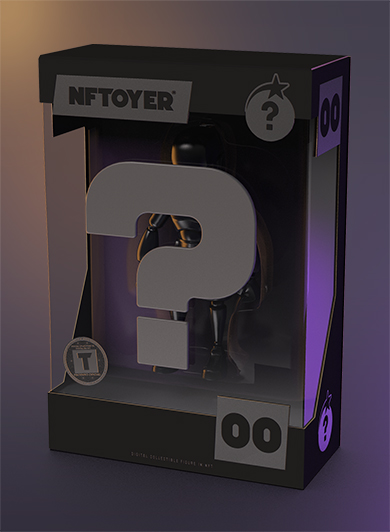
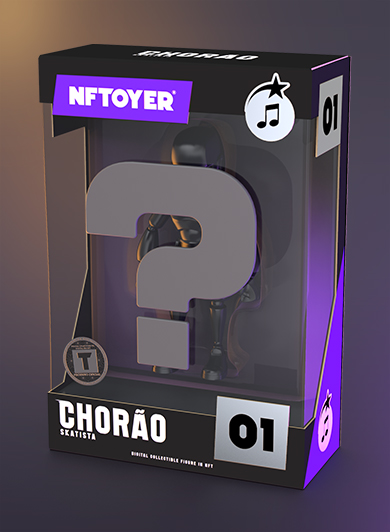
release

diff --git a/src/page-demo/Demo.js b/src/page-demo/Demo.js
@@ -18,7 +18,7 @@ const SlideList = [
         category: 'SEJA BEM-VINDO AO METAVERSO!',
         description: '',
         buttonText: 'Ver Coleções',
-        buttonLink: 'https://opensea.io/nftoyer'
+        buttonLink: 'https://opensea.io/collection/nftoyer'
     }
 ]
 
@@ -72,7 +72,7 @@ const PortfolioLanding = () => {
                                             {value.category ? <span>{value.category}</span> : ''}
                                             <h1 className="title">Figuras colecionáveis<br />em NFT para <br />
                                                 <TextLoop>
-                                                    <span> Colecionar.</span>
+                                                    <span> Manter.</span>
                                                     <span> Presentear.</span>
                                                     <span> Compartilhar.</span>
                                                 </TextLoop>{" "}
@@ -113,12 +113,12 @@ const PortfolioLanding = () => {
                             <div className="col-lg-6 col-md-12 col-sm-12 col-12">
                                 <div className="section-title text-left">
                                     <h2>Coleções</h2>
-                                    <p>Comerializamos nossos NFTOYERs pela plataforma OpenSea.</p>
+                                    <p>Comercializamos nossos NFTOYERs pela plataforma OpenSea.</p>
                                 </div>
                             </div>
                             <div className="col-lg-6 col-md-12 col-sm-12 col-12">
                                 <div className="blog-btn text-left text-lg-right mt_sm--10 mt_md--10">
-                                    <a className="btn-transparent rn-btn-dark" href="https://opensea.io/nftoyer" target="_blank" rel="noopener noreferrer"><span className="text">Ver todas coleções</span></a>
+                                    <a className="btn-transparent rn-btn-dark" href="https://opensea.io/collection/nftoyer" target="_blank" rel="noopener noreferrer"><span className="text">Ver todas coleções</span></a>
                                 </div>
                             </div>
                         </div>
@@ -200,6 +200,7 @@ const PortfolioLanding = () => {
             {/* ROADMAP */}
 
             {/* Start About Area  */}
+            <div id="roadmap" className="fix">
             <div className="rn-about-area ptb--120 bg_color--5">
                 <div className="rn-about-wrapper">
                     <div className="container">
@@ -229,6 +230,7 @@ const PortfolioLanding = () => {
                     </div>
                 </div>
             </div>
+            </div>
             {/* End About Area  */}
 
             {/* FAQ */}
@@ -251,16 +253,16 @@ const PortfolioLanding = () => {
 
                                     <h4 className="title">• Como funciona uma coleção?</h4>
                                     <p>Cada coleção trará uma estrela em sua versão NFTOYER®, contextualizada a um tema que representa sua personalidade e seu universo. As figuras são comercializadas dentro de suas próprias embalagens e traz consigo alguns itens que formam o conjunto daquela edição. <br/><br/>
-                                    Nossa fábricação de brinquedos digitais opera de forma única. As coleções tem tiragens limitadas e não serão relançadas por nós novamente!</p>
+                                    Nossa fabricação de brinquedos digitais opera de forma única. As coleções tem tiragens limitadas e não serão relançadas por nós novamente!</p>
 
                                     <h4 className="title">• Whitelist?!</h4>
                                     <p><spam style={{fontWeight:'800'}}>Não temos whitelist!</spam> Fique de olho em nossas redes sociais para saber dos próximos lançamentos.</p>
 
                                     <h4 className="title">• Onde posso comprar um NFTOYER®?</h4>
-                                    <p>Nossos NFTs são comercializados em Ethereum e podem ser adquiridos na plataforma <a href="https://opensea.io/nftoyer" target="_blank" rel="noopener noreferrer" style={{color:'#8f5eef'}}>OpenSea</a></p>
+                                    <p>Nossos NFTs são comercializados em Ethereum e podem ser adquiridos na plataforma <a href="https://opensea.io/collection/nftoyer" target="_blank" rel="noopener noreferrer" style={{color:'#8f5eef'}}>OpenSea</a></p>
 
                                     <h4 className="title">• Como posso saber mais sobre o projeto?</h4>
-                                    <p>Fique atento em nossas redes sociais, estaremos publicando todas as novidades diariamente!<a href="https://discord.gg/Z6mfaDzzub" target="_blank" rel="noopener noreferrer" style={{color:'#8f5eef'}}> Participe também da nossa comunidade no Discord!</a></p>
+                                    <p>Fique atento em nossas redes sociais! Todas as novidades serão publicadas diariamente!<a href="https://discord.gg/Z6mfaDzzub" target="_blank" rel="noopener noreferrer" style={{color:'#8f5eef'}}> Participe também da nossa comunidade no Discord!</a></p>
 
                                 </div>
                             </div>

diff --git a/src/elements/PortfolioChorao.jsx b/src/elements/PortfolioChorao.jsx
@@ -11,56 +11,56 @@ const ChoraoSkatistaList = [
         image: '1',
         category: '15 unidades',
         title: '#01 Chorão Skatista - Gold',
-        linkCompra: 'https://opensea.io/nftoyer'
+        linkCompra: 'https://opensea.io/collection/nftoyer'
     },
     {
         image: '2',
         category: '250 unidades',
         title: '#01 Chorão Skatista - Silver',
-        linkCompra: 'https://opensea.io/nftoyer'
+        linkCompra: 'https://opensea.io/collection/nftoyer'
     },
     {
         image: '3',
         category: '5.000 unidades',
         title: '#01 Chorão Skatista - Carbon',
-        linkCompra: 'https://opensea.io/nftoyer'
+        linkCompra: 'https://opensea.io/collection/nftoyer'
     },
     {
         image: '4',
         category: '2.500 unidades',
         title: '#01 Chorão Skatista - Accessory',
-        linkCompra: 'https://opensea.io/nftoyer'
+        linkCompra: 'https://opensea.io/collection/nftoyer'
     },
     {
         image: '4',
         category: '2.500 unidades',
         title: '#01 Chorão Skatista - Accessory',
-        linkCompra: 'https://opensea.io/nftoyer'
+        linkCompra: 'https://opensea.io/collection/nftoyer'
     },
     {
         image: '4',
         category: '2.500 unidades',
         title: '#01 Chorão Skatista - Accessory',
-        linkCompra: 'https://opensea.io/nftoyer'
+        linkCompra: 'https://opensea.io/collection/nftoyer'
     },
     {
         image: '5',
         category: '1 unidade',
         title: '#01 Chorão Skatista - Mystery Box',
-        linkCompra: 'https://opensea.io/nftoyer'
+        linkCompra: 'https://opensea.io/collection/nftoyer'
     },
     {
         image: '6',
         category: '1 unidade',
         title: '#01 Chorão Skatista - Blueprint',
-        linkCompra: 'https://opensea.io/nftoyer'
+        linkCompra: 'https://opensea.io/collection/nftoyer'
     },
     ,
     {
         image: '7',
         category: '1 unidade',
         title: '#01 Chorão Skatista - Concept',
-        linkCompra: 'https://opensea.io/nftoyer'
+        linkCompra: 'https://opensea.io/collection/nftoyer'
     }
 ];
 
@@ -110,6 +110,36 @@ const ChoraoSkatistaList = [
 //     }
 // ]
 
+var countDownDate = new Date("May 5, 2022 19:00:00").getTime();
+
+// Update the count down every 1 second
+var x = setInterval(function() {
+
+  // Get today's date and time
+  var now = new Date().getTime();
+    
+  // Find the distance between now and the count down date
+  var distance = countDownDate - now;
+    
+  // Time calculations for days, hours, minutes and seconds
+  var days = Math.floor(distance / (1000 * 60 * 60 * 24));
+  var hours = Math.floor((distance % (1000 * 60 * 60 * 24)) / (1000 * 60 * 60));
+  var minutes = Math.floor((distance % (1000 * 60 * 60)) / (1000 * 60));
+  var seconds = Math.floor((distance % (1000 * 60)) / 1000);
+    
+  // Output the result in an element with id="demo"
+  document.getElementById("demo").innerHTML = days + "d " + hours + "h "
+  + minutes + "m " + seconds + "s ";
+    
+  // If the count down is over, write some text 
+  if (distance < 0) {
+    clearInterval(x);
+    document.getElementById("demo").innerHTML = "EXPIRED";
+  }
+}, 1000);
+
+
+
 class PortfolioChorao extends Component {
     render() {
         return (
@@ -129,7 +159,8 @@ class PortfolioChorao extends Component {
                                 <div className="row">
                                     <div className="col-lg-12">
                                         <div className="section-title text-left service-style--3 mb--30">
-                                            <h2 className="title"><spam style={{ color: '#6C1FE5' }}>#01</spam> Chorão Skatista</h2>
+                                            <h2 className="title"><spam style={{ color: '#6C1FE5' }}>#01</spam> Chorão Skatista</h2>                                            
+                                            <h4 style={{textAlign:'left', fontWeight:'200'}}>Disponível em: <spam id="demo" style={{textAlign:'left', color:"white", fontWeight:'800'}}/></h4>
                                         </div>
                                     </div>
                                 </div>
@@ -147,7 +178,7 @@ class PortfolioChorao extends Component {
                                                     <p className="portfoliotype">{value.category}</p>
                                                     <h4 className="title"><a href={value.linkCompra}>{value.title}</a></h4>
                                                     <div className="portfolio-btn">
-                                                        <a className="rn-btn text-white" target="_blank" rel="noopener noreferrer" href={value.linkCompra}>Comprar</a>
+                                                        <a className="rn-btn text-white" target="_blank" rel="noopener noreferrer" href={value.linkCompra}>Ver no OpenSea</a>
                                                     </div>
                                                 </div>
                                             </div>

diff --git a/src/component/HomeLayout/homeOne/About.jsx b/src/component/HomeLayout/homeOne/About.jsx
@@ -1,7 +1,6 @@
 import React, { Component, useRef, Suspense } from "react";
 import { Canvas, Mesh, } from '@react-three/fiber'
 import { PresentationControls, ContactShadows, Stage, Float, Loader, Environment, SpotLight } from '@react-three/drei'
-import Model from "../../model";
 import Model00 from "../../model00";
 import { Link } from "react-router-dom";
 
@@ -30,7 +29,7 @@ class About extends Component {
                                             {/* <ContactShadows rotation-x={Math.PI / 2} position={[0, 0, 0]} color={} width={10} height={10} blur={2.6} far={2} /> */}
                                         </Canvas>
                                     </Suspense>
-                                    <img src="/assets/images/about/touchinteraction.png" />
+                                    <img src="/assets/images/about/touchinteraction.png" style={{marginBottom:'35px'}}/>
 
                                 </div>
                             </div>
@@ -39,7 +38,7 @@ class About extends Component {
                                 <div className="about-inner inner">
                                     <div className="section-title">
                                         <h2 className="title">Sobre</h2>
-                                        <p className="description">Somos a primeira empresa brasileira de<spam style={{ fontWeight: '900' }}> Figuras Colecionáveis em NFT, autenticadas oficialmente</spam> por estrelas da cultura pop nacional.</p>
+                                        <p className="description">Somos a primeira empresa brasileira de<spam style={{ fontWeight: '900' }}> figuras colecionáveis em NFT, autenticadas oficialmente</spam> por estrelas da cultura pop nacional.</p>
 
                                         <div className="container">
                                             <div className="row">
@@ -72,7 +71,7 @@ class About extends Component {
                                         <div className="col-lg-12 col-md-12 col-sm-12 col-12">
                                             <div className="about-us-list">
                                                 <h3 className="title">NFTOYERs</h3>
-                                                <p style={{ textAlign: "justify" }}>Cada coleção trará uma estrela em sua versão NFTOYER®, contextualizada a um tema que representa sua personalidade e seu universo. As figuras são comercializadas dentro de suas próprias embalagens, para preservar seu estado de conservação e traz consigo alguns itens que formam o conjunto daquela edição. Nossa fábricação de brinquedos digitais opera de forma única. As coleções tem tiragens limitadas e não serão relançadas por nós novamente!</p>
+                                                <p style={{ textAlign: "justify" }}>Cada coleção trará uma estrela em sua versão NFTOYER®, contextualizada a um tema que representa sua personalidade e seu universo. As figuras são comercializadas dentro de suas próprias embalagens, para preservar seu estado de conservação e traz consigo alguns itens que formam o conjunto daquela edição. Nossa fabricação de brinquedos digitais opera de forma única. As coleções tem tiragens limitadas e não serão relançadas por nós novamente!</p>
                                             </div>
                                         </div>
 

diff --git a/src/elements/portfolio/PortfolioImagesChorao.jsx b/src/elements/portfolio/PortfolioImagesChorao.jsx
@@ -6,44 +6,44 @@ const PortfolioList = [
         image: '1',
         category: 'Figura colecionável',
         title: '#01 Chorão Skatista - Gold',
-        linkCompra: 'https://opensea.io/nftoyer'
+        linkCompra: 'https://opensea.io/collection/nftoyer'
     },
     {
         image: '2',
         category: 'Figura colecionável',
         title: '#01 Chorão Skatista - Silver',
-        linkCompra: 'https://opensea.io/nftoyer'
+        linkCompra: 'https://opensea.io/collection/nftoyer'
     },
     {
         image: '3',
         category: 'Figura colecionável',
         title: '#01 Chorão Skatista - Carbon',
-        linkCompra: 'https://opensea.io/nftoyer'
+        linkCompra: 'https://opensea.io/collection/nftoyer'
     },
     {
         image: '4',
         category: 'Acessório',
         title: '#01 Chorão Skatista - Accessory',
-        linkCompra: 'https://opensea.io/nftoyer'
+        linkCompra: 'https://opensea.io/collection/nftoyer'
     },
     {
         image: '5',
         category: 'Desenho técnico',
         title: '#01 Chorão Skatista - Blueprint',
-        linkCompra: 'https://opensea.io/nftoyer'
+        linkCompra: 'https://opensea.io/collection/nftoyer'
     },
     {
         image: '6',
         category: 'Conceito',
         title: '#01 Chorão Skatista - Concept',
-        linkCompra: 'https://opensea.io/nftoyer'
+        linkCompra: 'https://opensea.io/collection/nftoyer'
     },
     ,
     {
         image: '7',
         category: 'Item misterioso',
         title: '#01 Chorão Skatista - Mystery Box',
-        linkCompra: 'https://opensea.io/nftoyer'
+        linkCompra: 'https://opensea.io/collection/nftoyer'
     }
 ]
 

diff --git a/src/component/footer/Footer.jsx b/src/component/footer/Footer.jsx
@@ -4,7 +4,7 @@ import { ReactComponent as OpenSea } from '../../../public/assets/images/logo/op
 import {SiTiktok } from "react-icons/si";
 
 const SocialShare = [
-    {Social: <OpenSea src="/assets/images/logo/opensea.svg"/> , link: 'https://opensea.io/nftoyer'},
+    {Social: <OpenSea src="/assets/images/logo/opensea.svg"/> , link: 'https://opensea.io/collection/nftoyer'},
     {Social: <FaTwitter /> , link: 'https://twitter.com/nftoyer'},
     {Social: <FaInstagram /> , link: 'https://www.instagram.com/nftoyer/'},
     {Social: <FaDiscord /> , link: 'https://discord.gg/Z6mfaDzzub'},
@@ -23,7 +23,7 @@ class Footer extends Component{
                                     <div className="inner">
                                         <span style={{textShadow:'1px 1px 3px #211C33'}}>Faça parte do Metaverso</span>
                                         <h2 style={{textShadow:'1px 1px 15px #211C33', fontSize:'50px', lineHeight:"1.2"}}>VENHA SER UM<br/>NFTOYER<spam style={{fontSize:'25px'}}>®</spam>!</h2>
-                                        <a className="rn-button-style--2" target="_blank" rel="noopener noreferrer" href='https://opensea.io/nftoyer' style={{boxShadow:'1px 1px 3px #211C33'}}>
+                                        <a className="rn-button-style--2" target="_blank" rel="noopener noreferrer" href='https://opensea.io/collection/nftoyer' style={{boxShadow:'1px 1px 3px #211C33'}}>
                                             <span style={{textShadow:'1px 1px 3px #211C33'}}>Comprar</span>
                                         </a>
                                     </div>

diff --git a/src/elements/service/ServiceTwo.jsx b/src/elements/service/ServiceTwo.jsx
@@ -16,7 +16,7 @@ const ServiceList = [
     },
     {
         icon: <FiUploadCloud />,
-        title: 'Inclusão',
+        title: 'Inclusão Digital',
         description: 'O caminho mais fácil e estiloso para a sua entrada no Metaverso.'
     },
     {
@@ -99,7 +99,7 @@ class ServiceTwo extends Component {
                                     <p style={{marginTop:"-5px", maxWidth:'95%', marginBottom:'50px'}}>Para <a href="https://opensea.io/login?referrer=%2Faccount" target="_blank" rel="noopener noreferrer" style={{color:'#8f5eef'}}>criar sua conta OpenSea</a> é necessário conectar a sua carteira MetaMask.</p>
 
                                     <h4 style={{maxWidth:'95%'}}>5. Compre o seu NFTOYER®</h4>
-                                    <p style={{marginTop:"-5px", maxWidth:'95%', marginBottom:'50px'}}><a href="https://opensea.io/nftoyer" target="_blank" rel="noopener noreferrer" style={{color:'#8f5eef'}}>Escolha o seu NFTOYER®</a> e finalize as transações a partir da MetaMask.</p>
+                                    <p style={{marginTop:"-5px", maxWidth:'95%', marginBottom:'50px'}}><a href="https://opensea.io/collection/nftoyer" target="_blank" rel="noopener noreferrer" style={{color:'#8f5eef'}}>Escolha o seu NFTOYER®</a> e finalize as transações a partir da MetaMask.</p>
 
                                     <div className="service-btn">
                                         <a className="btn-transparent rn-btn-dark" onClick={this.handleCloseModal} style={{ cursor: 'pointer' }}><span className="text">Fechar</span></a>

diff --git a/src/elements/common/PortfolioHeader.jsx b/src/elements/common/PortfolioHeader.jsx
@@ -31,7 +31,7 @@ class PortfolioHeader extends Component {
                                             <h4 style={{ marginTop: '20px', textShadow: '1px 1px 3px black' }}>Sobre</h4>
                                             <p style={{ textAlign: 'justify', maxWidth: '430px', fontSize: '14px', lineHeight: '1.7', color: 'white', textShadow: '1px 1px 3px black' }}>Alexandre Magno Abrão nasceu em São Paulo, no dia 9 de abril de 1970, mais conhecido como Chorão, foi um cantor, compositor, skatista, cineasta, roteirista e empresário brasileiro. Fundou a banda Charlie Brown Jr. em 1992, que seguia a linha hardcore com influências do punk rock californiano, e mistura vários ritmos como o reggae, o hip-hop, criando um estilo próprio.</p>
                                             <div className="portfolio-button" style={{ marginTop: '10px', boxShadow: '1px 1px 3px black' }}>
-                                                <a className="rn-btn" target="_blank" rel="noopener noreferrer" href={'https://opensea.io/nftoyer'} style={{textShadow: '1px 1px 3px black' }}>Ver no OpenSea</a>
+                                                <a className="rn-btn" target="_blank" rel="noopener noreferrer" href={'https://opensea.io/collection/nftoyer'} style={{textShadow: '1px 1px 3px black' }}>Ver no OpenSea</a>
                                             </div>
 
                                         </div>

diff --git a/src/index.js b/src/index.js
@@ -41,9 +41,9 @@ class Root extends Component{
                {/* <HeaderThree homeLink="/" logo="symbol-dark" color="color-black" /> */}
                 <PageScrollTop>
                     <Switch>
-                        <Route exact path={`${process.env.PUBLIC_URL}/`} component={Soon}/>
+                        {/* <Route exact path={`${process.env.PUBLIC_URL}/`} component={Soon}/> */}
                         <Route exact path={`${process.env.PUBLIC_URL}/chorao`} component={PortfolioChorao}/>
-                        <Route path={`${process.env.PUBLIC_URL}/home`} component={Demo}/>
+                        <Route path={`${process.env.PUBLIC_URL}/`} component={Demo}/>
                     </Switch>
                     {/* <Footer/> */}
                 </PageScrollTop>

diff --git a/src/blocks/progressbar/ProgressOne.jsx b/src/blocks/progressbar/ProgressOne.jsx
@@ -23,7 +23,7 @@ const ProgressOne = (props) => {
 
             <div className="single-progress">
                 <h4 style={{maxWidth:'90%'}}>3. App de TV</h4>
-                <p style={{marginTop:"-15px", maxWidth:'90%'}}>Aplicativo para Smart TV's que permite a exibição da sua coleção com de NFTOYERs com a função Modo Arte.</p> 
+                <p style={{marginTop:"-15px", maxWidth:'90%'}}>Aplicativo para Smart TV's que permite a exibição da sua coleção de NFTOYERs com a função Modo Arte.</p> 
                   
                 <ProgressBar now={2}/>
                 <span className="label">2%</span>

diff --git a/src/page-demo/Soon.js b/src/page-demo/Soon.js
@@ -4,7 +4,7 @@ import { FaInstagram, FaFacebookF, FaTwitter, FaDiscord} from "react-icons/fa";
 import {SiTiktok } from "react-icons/si";
 
 const SocialShare = [
-    {Social: <img src="/assets/images/logo/opensea-white.svg"/> , link: 'https://opensea.io/nftoyer'},
+    {Social: <img src="/assets/images/logo/opensea-white.svg"/> , link: 'https://opensea.io/collection/nftoyer'},
     {Social: <FaTwitter /> , link: 'https://twitter.com/nftoyer'},
     {Social: <FaInstagram /> , link: 'https://www.instagram.com/nftoyer/'},
     {Social: <FaDiscord /> , link: 'https://discord.gg/QSZbAntmmM'},

diff --git a/src/component/header/HeaderThree.jsx b/src/component/header/HeaderThree.jsx
@@ -5,7 +5,7 @@ import { FiX , FiMenu} from "react-icons/fi";
 import Scrollspy from 'react-scrollspy'
 
 const SocialShare = [
-    {Social: <img src="/assets/images/logo/opensea-white.svg"/> , link: 'https://opensea.io/nftoyer'},
+    {Social: <img src="/assets/images/logo/opensea-white.svg"/> , link: 'https://opensea.io/collection/nftoyer'},
     {Social: <FaTwitter /> , link: 'https://twitter.com/nftoyer'},
     {Social: <FaInstagram /> , link: 'https://www.instagram.com/nftoyer/'},
     {Social: <FaDiscord /> , link: 'https://discord.gg/Z6mfaDzzub'},
